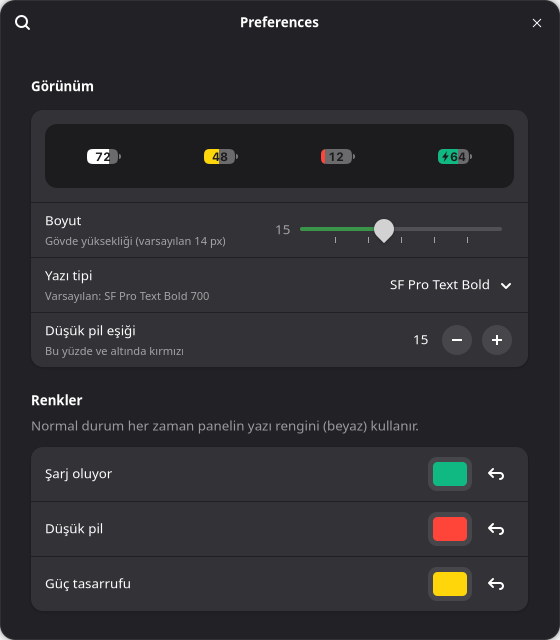
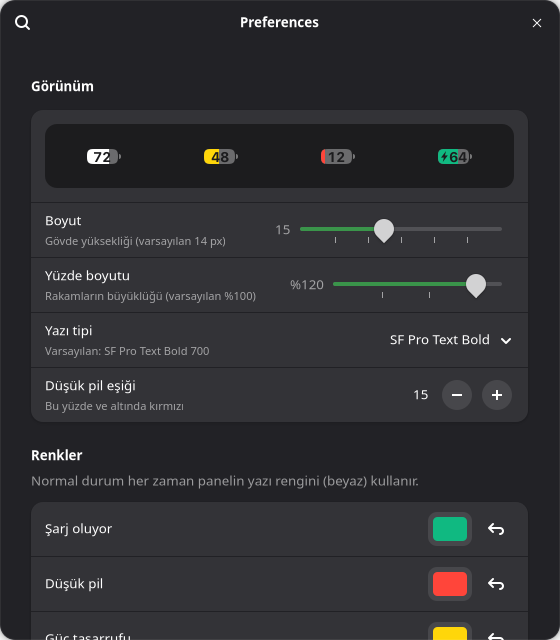
feat: adjustable percentage text size (60–130 %)
The digits grow or shrink with the setting but are clamped to the pill's
inner box, so wide values like the charging bolt + 100 never overflow.

diff --git a/lib/painter.js b/lib/painter.js
@@ -47,6 +47,7 @@ const NUB_ALPHA = 0.4;
  * @param {number} o.level  integer percentage shown as text
  * @param {boolean} o.bolt
  * @param {{family: string, weight: number}} [o.font]
+ * @param {number} [o.textScale]  percentage size multiplier (1 = default); clamped to fit the body
  */
 export function paintBattery(cr, o) {
     const {body, nub} = layout(o.height, o.ds);
@@ -72,12 +73,14 @@ export function paintBattery(cr, o) {
     cr.restore();
 }
 
-function knockoutContent(cr, body, {level, bolt, ds, font = {family: 'Adwaita Sans', weight: SYSTEM_WEIGHT}}) {
+function knockoutContent(cr, body, {level, bolt, ds, font = {family: 'Adwaita Sans', weight: SYSTEM_WEIGHT}, textScale = 1}) {
     const pad = body.h * 0.15;
     const avail = body.w - 2 * pad;
     const boltH = bolt ? snap(body.h * 0.72, ds) : 0;
     const boltW = boltH * BOLT_ASPECT;
     const gap = bolt ? Math.max(1 / ds, body.h * 0.03) : 0;
+    // digits may grow until they touch this inner box, never past it
+    const maxInkH = body.h - 2 * Math.max(1 / ds, body.h * 0.1);
 
     const pl = PangoCairo.create_layout(cr);
     const attrs = new Pango.AttrList();
@@ -90,16 +93,18 @@ function knockoutContent(cr, body, {level, bolt, ds, font = {family: 'Adwaita Sa
     desc.set_weight(font.weight);
 
     // Whole device-pixel font sizes keep stems sharp at 1x.
-    let size = body.h * 0.8;
+    let size = body.h * 0.8 * textScale;
     let ink;
-    for (let i = 0; i < 5; i++) {
+    for (let i = 0; i < 6; i++) {
         desc.set_absolute_size(Math.max(1, Math.round(size * ds)) / ds * Pango.SCALE);
         pl.set_font_description(desc);
         [ink] = pl.get_extents();
         const textW = ink.width / Pango.SCALE;
-        if (textW + boltW + gap <= avail)
+        const textH = ink.height / Pango.SCALE;
+        const fit = Math.min((avail - boltW - gap) / textW, maxInkH / textH);
+        if (fit >= 1)
             break;
-        size *= (avail - boltW - gap) / textW;
+        size *= fit;
     }
     const inkX = ink.x / Pango.SCALE, inkY = ink.y / Pango.SCALE;
     const inkW = ink.width / Pango.SCALE, inkH = ink.height / Pango.SCALE;

diff --git a/lib/indicator.js b/lib/indicator.js
@@ -22,6 +22,7 @@ class BatteryIcon extends St.DrawingArea {
         this._colors = null;
         this._height = 14;
         this._font = 'default';
+        this._textScale = 1;
         this._key = '';
         this._fg = [1, 1, 1, 1];
         // What is on screen; differs from the target only while animating.
@@ -50,8 +51,8 @@ class BatteryIcon extends St.DrawingArea {
         });
     }
 
-    update(state, colors, height, font) {
-        const key = `${stateKey(state)}|${height}|${colors.key}|${font}`;
+    update(state, colors, height, font, textScale) {
+        const key = `${stateKey(state)}|${height}|${colors.key}|${font}|${textScale}`;
         if (key === this._key)
             return;
         this._key = key;
@@ -62,6 +63,7 @@ class BatteryIcon extends St.DrawingArea {
         this._colors = colors;
         this._height = height;
         this._font = font;
+        this._textScale = textScale;
         if (relayout)
             this.queue_relayout();
 
@@ -147,6 +149,7 @@ class BatteryIcon extends St.DrawingArea {
             level: this._state.level,
             bolt: this._state.bolt,
             font: resolveFont(this._font, this.get_theme_node().get_font()?.get_family()),
+            textScale: this._textScale,
         });
         cr.$dispose();
     }
@@ -170,13 +173,13 @@ class BatteryIndicator extends SystemIndicator {
         this.add_child(this._icon);
     }
 
-    setState(state, colors, height, font) {
+    setState(state, colors, height, font, textScale) {
         this.visible = state.visible;
         if (!state.visible)
             return;
         for (const tone of Object.keys(TONE_TEXT))
             this[tone === state.tone ? 'add_style_class_name' : 'remove_style_class_name'](tone);
-        this._icon.update(state, colors, height, font);
+        this._icon.update(state, colors, height, font, textScale);
         const extra = TONE_TEXT[state.tone];
         this.accessible_name = `Pil %${state.level}${extra ? `, ${extra}` : ''}`;
     }

diff --git a/prefs.js b/prefs.js
@@ -65,6 +65,7 @@ function buildPreview(settings) {
             paintBattery(lc, {
                 height: h, ds, fg, fillColor: toneColor(st.tone, colors, fg),
                 fillLevel: st.level, level: st.level, bolt: st.bolt, font,
+                textScale: settings.get_int('text-scale') / 100,
             });
             lc.$dispose();
 
@@ -115,6 +116,25 @@ export default class BatteryPillPrefs extends ExtensionPreferences {
         settings.bind('icon-height', scale.adjustment, 'value', Gio.SettingsBindFlags.DEFAULT);
         sizeRow.add_suffix(scale);
         look.add(sizeRow);
+
+        const textRow = new Adw.ActionRow({title: 'Yüzde boyutu', subtitle: 'Rakamların büyüklüğü (varsayılan %100)'});
+        const textScale = new Gtk.Scale({
+            orientation: Gtk.Orientation.HORIZONTAL,
+            adjustment: new Gtk.Adjustment({lower: 60, upper: 130, step_increment: 5, page_increment: 10}),
+            digits: 0,
+            draw_value: true,
+            value_pos: Gtk.PositionType.LEFT,
+            round_digits: 0,
+            hexpand: true,
+            width_request: 220,
+            valign: Gtk.Align.CENTER,
+        });
+        textScale.set_format_value_func((_s, v) => `%${Math.round(v)}`);
+        for (const v of [80, 100, 120])
+            textScale.add_mark(v, Gtk.PositionType.BOTTOM, null);
+        settings.bind('text-scale', textScale.adjustment, 'value', Gio.SettingsBindFlags.DEFAULT);
+        textRow.add_suffix(textScale);
+        look.add(textRow);
 
         const installed = hasFamily(DEFAULT_FAMILY);
         const fontRow = new Adw.ComboRow({

diff --git a/tools/render-preview.js b/tools/render-preview.js
@@ -1,5 +1,5 @@
 // Renders every state at several sizes/scales into a PNG sheet for review.
-// Usage: gjs -m tools/render-preview.js [out.png] [default|system]
+// Usage: gjs -m tools/render-preview.js [out.png] [default|system] [text-scale %]
 import Cairo from 'cairo';
 import System from 'system';
 
@@ -8,7 +8,8 @@ import {layout, parseHex} from '../lib/geometry.js';
 
 const out = System.programArgs[0] ?? '/tmp/bp-preview.png';
 const font = resolveFont(System.programArgs[1] ?? 'default', 'Adwaita Sans');
-print(`font: ${font.family} ${font.weight}`);
+const textScale = Number(System.programArgs[2] ?? 100) / 100;
+print(`font: ${font.family} ${font.weight}, text ${textScale * 100}%`);
 const colors = {charging: parseHex('#10B981'), low: parseHex('#FF453A'), saver: parseHex('#FFD60A')};
 const states = [
     {tone: 'normal', level: 72, bolt: false},
@@ -39,7 +40,7 @@ rows.forEach(([height, s], ri) => {
         cr.scale(s, s);
         paintBattery(cr, {
             height, ds: s, fg, fillColor: toneColor(st.tone, colors, fg),
-            fillLevel: st.level, level: st.level, bolt: st.bolt, font,
+            fillLevel: st.level, level: st.level, bolt: st.bolt, font, textScale,
         });
         cr.$dispose();
         sc.setSourceSurface(layer, Math.round(ci * cellW * s + 6 * s), y + Math.round((rowH[ri] - h) / 2));

diff --git a/extension.js b/extension.js
@@ -119,6 +119,7 @@ export default class BatteryPillExtension extends Extension {
         this._colors = colors;
         this._height = s.get_int('icon-height');
         this._font = s.get_string('font');
+        this._textScale = s.get_int('text-scale') / 100;
         this._lowThreshold = s.get_int('low-threshold');
     }
 
@@ -128,6 +129,6 @@ export default class BatteryPillExtension extends Extension {
         const battery = this._mock?.battery ?? this._power?.snapshot ?? null;
         const profile = this._mock?.profile ?? this._profile?.active ?? null;
         const state = resolve(battery, profile, {lowThreshold: this._lowThreshold});
-        this._indicator.setState(state, this._colors, this._height, this._font);
+        this._indicator.setState(state, this._colors, this._height, this._font, this._textScale);
     }
 }

diff --git a/README.md b/README.md
@@ -41,6 +41,7 @@ Charging always wins, so you get green with a bolt even in Power Saver. Low batt
 <img src="docs/prefs.png" alt="Settings window" width="420" align="right">
 
 - **Size**: body height from 10 to 22 px, keeping the same proportions at every size.
+- **Percentage size**: 60–130 % of the default. The digits shrink automatically if needed so they never spill out of the pill.
 - **Font**: SF Pro Text Bold 700 (default) or the system font. If SF Pro Text is not installed, it falls back to the system font automatically.
 - **Low battery threshold**: 5–30 %.
 - **Colors** for charging, low battery and power saver.
